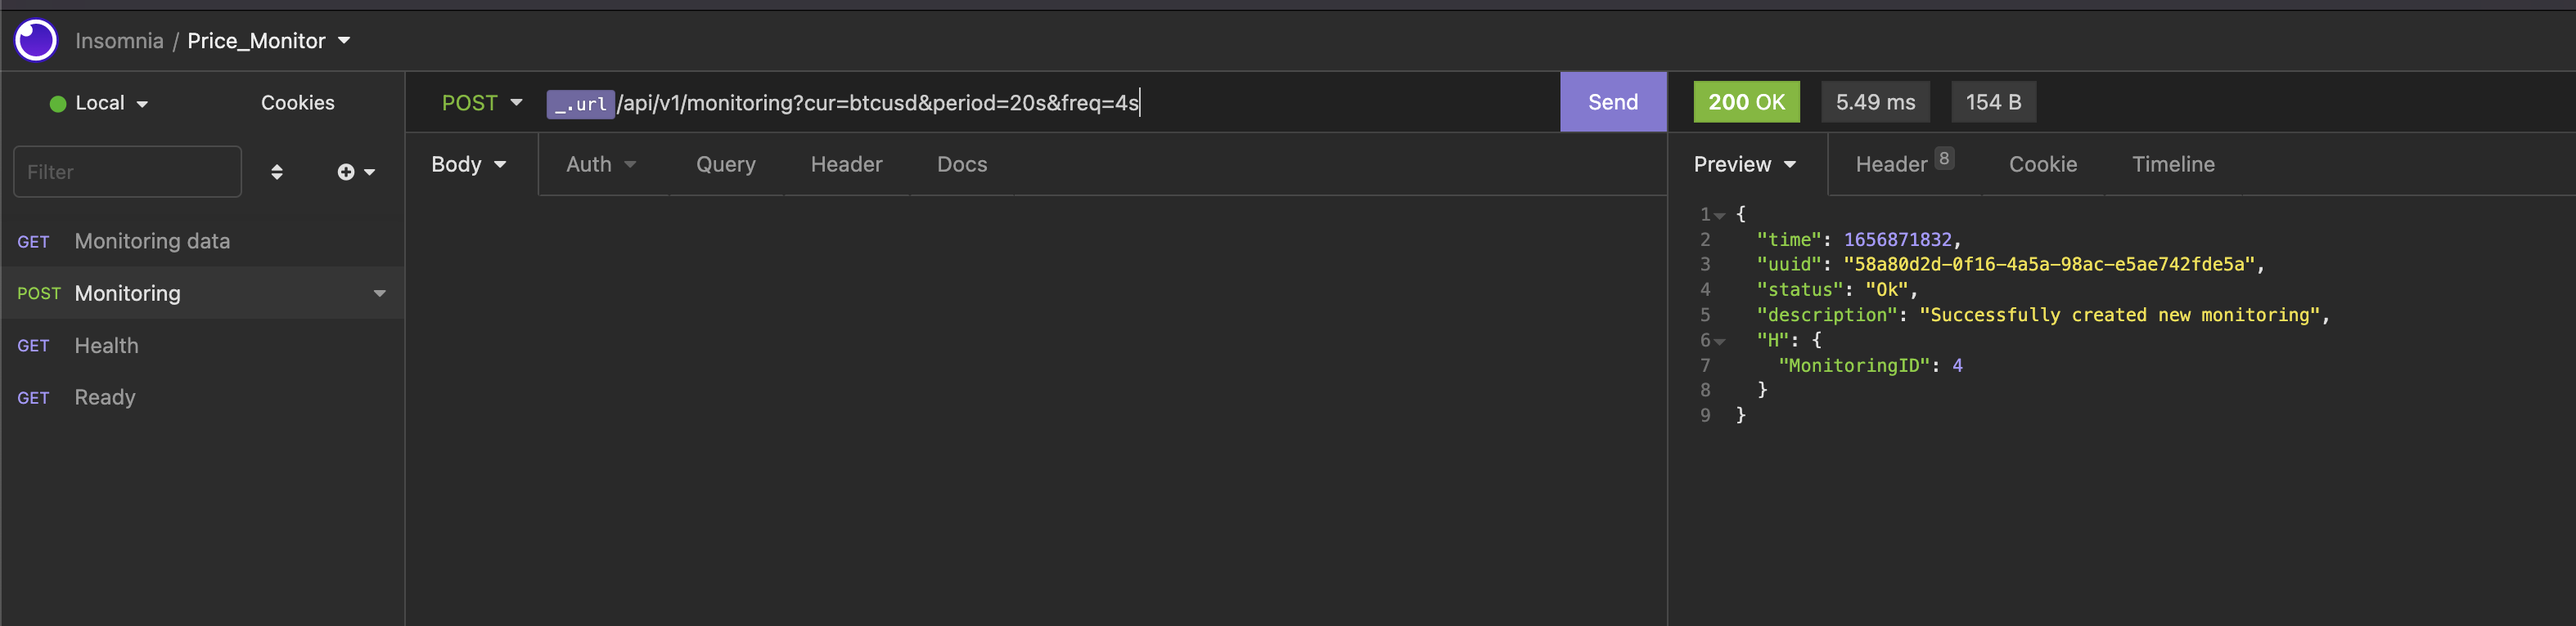
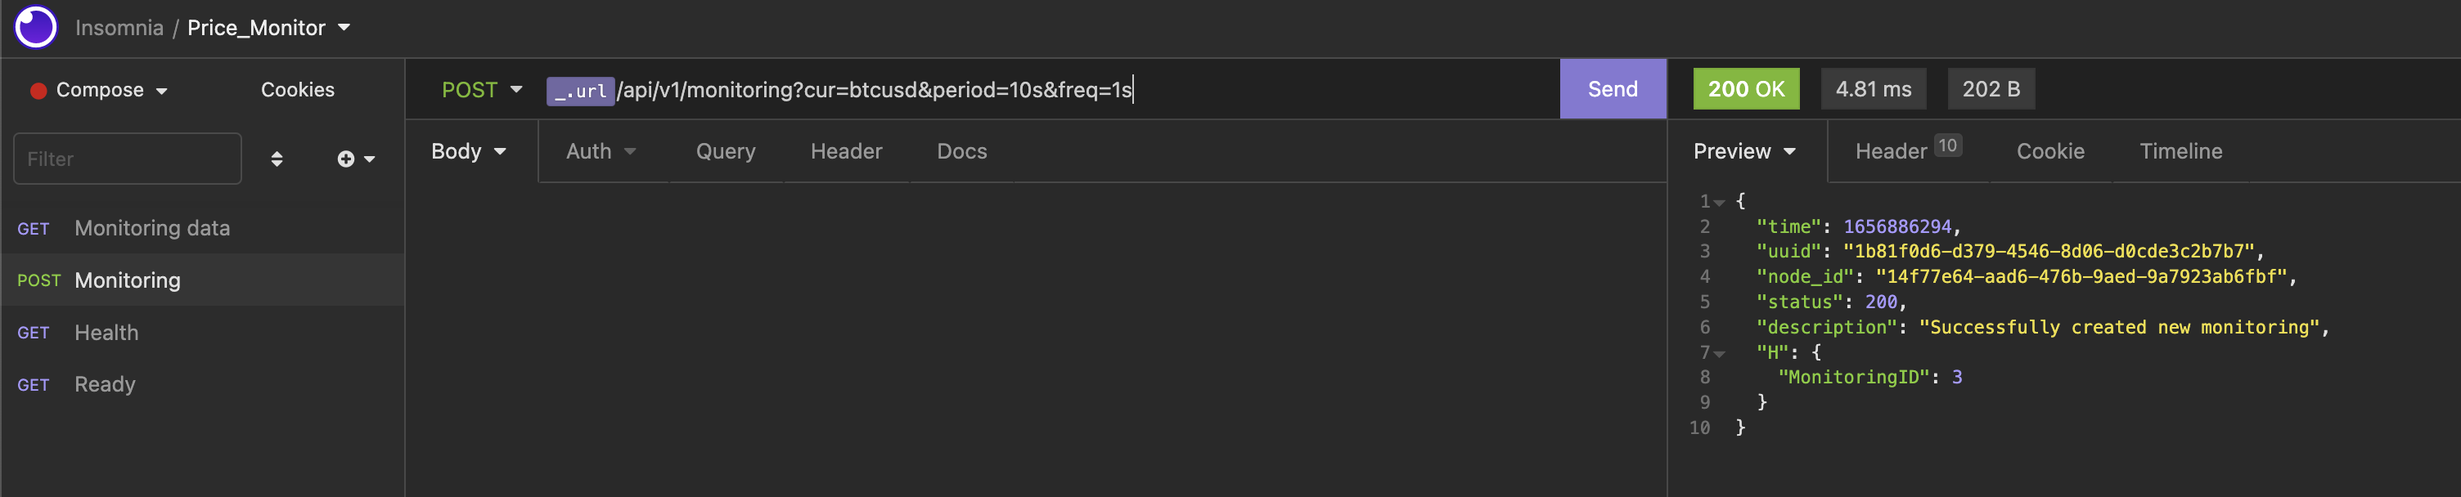
fix. update README.md, add NodeID (for describe purposes). minor fixes.

diff --git a/internal/servers/http/handlers.go b/internal/servers/http/handlers.go
@@ -13,7 +13,6 @@ import (
 	"github.com/imperiuse/price_monitor/internal/helper"
 	"github.com/imperiuse/price_monitor/internal/logger/field"
 	mw "github.com/imperiuse/price_monitor/internal/servers/http/middlerware"
-	"github.com/imperiuse/price_monitor/internal/servers/http/util"
 	"github.com/imperiuse/price_monitor/internal/services/storage"
 	"github.com/imperiuse/price_monitor/internal/services/storage/model"
 )
@@ -23,12 +22,13 @@ const defaultLimit = 10000
 type (
 	FormGetMonitoring struct {
 		ID     int64  `uri:"id" binding:"required,min=1,max=9223372036854775807"`
+		Delete bool   `form:"delete"  binding:"omitempty"`
 		Cursor uint64 `form:"cursor"  binding:"omitempty,min=0,max=18446744073709551615"`
 		Limit  uint64 `form:"limit"  binding:"omitempty,min=1,max=10000"`
 	}
 
 	FormPostMonitoring struct {
-		// TODO ALSO CAN BE LIKE HERE
+		// TODO ALSO CAN BE LIKE HERE (I decide to go straightforward, simple and utility)
 		//FromTime  time.Time `form:"from" binding:"required" time_format:"2006-01-02T15:04:05" time_utc:"0"` // time.RFC3339
 		//ToTime    time.Time `form:"to" binding:"required" time_format:"2006-01-02T15:04:05" time_utc:"0"`   // time.RFC3339
 
@@ -52,8 +52,8 @@ type (
 // @Produce  json
 // @Success 200
 // @Router /health [get]
-func Health(c *gin.Context) {
-	c.String(http.StatusOK, "")
+func (s *Server) Health(c *gin.Context) {
+	c.String(http.StatusOK, `{"NodeID": %s}`, s.config.NodeID)
 }
 
 // Readiness godoc
@@ -65,8 +65,8 @@ func Health(c *gin.Context) {
 // @Produce  json
 // @Success 200
 // @Router /ready [get]
-func Readiness(c *gin.Context) {
-	c.String(http.StatusOK, "ready")
+func (s *Server) Readiness(c *gin.Context) {
+	c.String(http.StatusOK, `{"NodeID": %s}`, s.config.NodeID)
 }
 
 // GetMonitoring godoc
@@ -75,6 +75,7 @@ func Readiness(c *gin.Context) {
 // @Id GetMonitoring
 // @Tags Server API
 // @Param id path int true "id of road controller"
+// @Param delete query bool false "delete monitoring after"
 // @Param cursor query int false "cursor for cursor pagination"
 // @Param limit query int false "limit for limit pagination"// todo https://uxdesign.cc/why-facebook-says-cursor-pagination-is-the-greatest-d6b98d86b6c0
 // @Accept  json
@@ -93,14 +94,14 @@ func (s *Server) GetMonitoring(c *gin.Context) { // TODO  toooo-looong func need
 	f := FormGetMonitoring{}
 	if err := c.ShouldBindUri(&f); err != nil {
 		s.log.Error("can not parse params (uri)", field.ID(f.ID), field.Any("form", f), field.Error(err))
-		util.SendErrorJSON(c, http.StatusBadRequest, "can not parse params (uri)", err)
+		s.SendErrorJSON(c, http.StatusBadRequest, "can not parse params (uri)", err)
 
 		return
 	}
 
 	if err := c.ShouldBindQuery(&f); err != nil {
 		s.log.Error("can not parse params (query)", field.ID(f.ID), field.Any("form", f), field.Error(err))
-		util.SendErrorJSON(c, http.StatusBadRequest, "can not parse params (query)", err)
+		s.SendErrorJSON(c, http.StatusBadRequest, "can not parse params (query)", err)
 
 		return
 	}
@@ -114,20 +115,20 @@ func (s *Server) GetMonitoring(c *gin.Context) { // TODO  toooo-looong func need
 	if err != nil {
 		if errors.Is(err, sql.ErrNoRows) {
 			s.log.Debug("not found monitoring obj with id", field.ID(f.ID))
-			util.SendErrorJSON(c, http.StatusNotFound, "no monitoring obj with that id", nil)
+			s.SendErrorJSON(c, http.StatusNotFound, "no monitoring obj with that id", nil)
 
 			return
 		}
 
 		s.log.Error("can not get data for monitoring from db", field.ID(f.ID), field.Any("form", f), field.Error(err))
-		util.SendErrorJSON(c, http.StatusInternalServerError, "can not get data for monitoring from db", err)
+		s.SendErrorJSON(c, http.StatusInternalServerError, "can not get data for monitoring from db", err)
 
 		return
 	}
 
 	if time.Now().UTC().Before(m.ExpiredAt) {
 		s.log.Debug("monitoring has not finished yet", field.Any("form", f), field.ID(f.ID))
-		util.SendErrorJSON(c, http.StatusAccepted, "monitoring has not finished yet", nil)
+		s.SendErrorJSON(c, http.StatusAccepted, "monitoring has not finished yet", nil)
 
 		return
 	}
@@ -135,7 +136,7 @@ func (s *Server) GetMonitoring(c *gin.Context) { // TODO  toooo-looong func need
 	curCode, err := s.getCurrencyCodeById(ctx, m.CurrencyID)
 	if err != nil {
 		s.log.Debug("not found currency code by code id", field.Any("m", m), field.ID(f.ID))
-		util.SendErrorJSON(c, http.StatusInternalServerError, "not found currency code by code id", nil)
+		s.SendErrorJSON(c, http.StatusInternalServerError, "not found currency code by code id", nil)
 
 		return
 	}
@@ -143,7 +144,7 @@ func (s *Server) GetMonitoring(c *gin.Context) { // TODO  toooo-looong func need
 	freq, err := time.ParseDuration(m.Frequency)
 	if err != nil {
 		s.log.Error("bad value for frequency from db", field.ID(f.ID), field.Any("m", m), field.Error(err))
-		util.SendErrorJSON(c, http.StatusInternalServerError, "bad value for frequency from db ", err)
+		s.SendErrorJSON(c, http.StatusInternalServerError, "bad value for frequency from db ", err)
 
 		return
 	}
@@ -162,7 +163,7 @@ func (s *Server) GetMonitoring(c *gin.Context) { // TODO  toooo-looong func need
 	if err != nil {
 		s.log.Error("can not get prices data for monitoring",
 			field.ID(f.ID), field.Any("form", f), field.Error(err))
-		util.SendErrorJSON(c, http.StatusInternalServerError, "can not get prices data for monitoring", err)
+		s.SendErrorJSON(c, http.StatusInternalServerError, "can not get prices data for monitoring", err)
 
 		return
 	}
@@ -174,21 +175,20 @@ func (s *Server) GetMonitoring(c *gin.Context) { // TODO  toooo-looong func need
 	prices = applyFreqFilter(prices, freq)
 
 	// TODO optional we can delete monitoring with that ID  (auto clean table, good idea imho)
-	//_, err = s.storage.Connector().Repo(m).Delete(ctx, f.ID)
-	//if err != nil {
-	//	s.log.Error("can not deleter monitoring", field.ID(f.ID), field.Any("form", f), field.Error(err))
-	//}
+	if f.Delete {
+		_, err = s.storage.Connector().Repo(m).Delete(ctx, f.ID)
+		if err != nil {
+			s.log.Error("can not deleter monitoring", field.ID(f.ID), field.Any("form", f), field.Error(err))
+		}
+	}
 
-	util.SendJSON(c, http.StatusOK, util.HTTPGoodResponse{
-		Time:        time.Now().UTC().Unix(),
-		UUID:        helper.FromContextGetUUID(ctx),
-		Status:      "Ok",
-		Description: "Result of monitoring (time in UTC)",
-		H: gin.H{
+	s.SendJSON(c, http.StatusOK, "Result of monitoring (time in UTC)",
+		gin.H{
 			"MonitoringID": f.ID,
+			"StartAt":      m.StartedAt,
+			"FinishedAt":   m.ExpiredAt,
 			"Prices":       convertToResponsePrices(prices),
-		},
-	})
+		})
 }
 
 func (s *Server) getCurrencyCodeById(ctx context.Context, id model.Identity) (string, error) {
@@ -263,7 +263,7 @@ func (s *Server) PostMonitoring(c *gin.Context) { // TODO  toooo-looong func nee
 	periodDuration, err := time.ParseDuration(f.Period)
 	if err != nil {
 		s.log.Error("bad value for period", field.Any("form", f), field.Error(err))
-		util.SendErrorJSON(c, http.StatusBadRequest, "bad value for period", err)
+		s.SendErrorJSON(c, http.StatusBadRequest, "bad value for period", err)
 
 		return
 	}
@@ -271,14 +271,14 @@ func (s *Server) PostMonitoring(c *gin.Context) { // TODO  toooo-looong func nee
 	freqDur, err := time.ParseDuration(f.Frequency)
 	if err != nil {
 		s.log.Error("bad value for frequncy", field.Any("form", f), field.Error(err))
-		util.SendErrorJSON(c, http.StatusBadRequest, "bad value for frequency", err)
+		s.SendErrorJSON(c, http.StatusBadRequest, "bad value for frequency", err)
 
 		return
 	}
 
 	if f.Period == "" || f.Frequency == "" || f.Currency == "" {
 		s.log.Error("bad value fin form", field.Any("form", f), field.Error(err))
-		util.SendErrorJSON(c, http.StatusBadRequest, "bad values in form", err)
+		s.SendErrorJSON(c, http.StatusBadRequest, "bad values in form", err)
 
 		return
 	}
@@ -286,7 +286,7 @@ func (s *Server) PostMonitoring(c *gin.Context) { // TODO  toooo-looong func nee
 	// TODO need clarify this, I add my constraints instead
 	if periodDuration > time.Hour*24 || freqDur < time.Second {
 		s.log.Error("period to much or freq too low", field.Any("form", f), field.Error(err))
-		util.SendErrorJSON(c, http.StatusBadRequest, "freqDur", err)
+		s.SendErrorJSON(c, http.StatusBadRequest, "freqDur", err)
 
 		return
 	}
@@ -299,7 +299,8 @@ func (s *Server) PostMonitoring(c *gin.Context) { // TODO  toooo-looong func nee
 	m.CurrencyID, err = s.getCurrencyIdByCurrencyCode(ctx, f.Currency)
 	if err != nil {
 		s.log.Error("can not get data currency data from db", field.Any("form", f), field.Error(err))
-		util.SendErrorJSON(c, http.StatusInternalServerError, "can not get data currency data from db", err)
+		s.SendErrorJSON(c, http.StatusBadRequest, "can not get data currency data from db."+
+			" probably you try to start monitoring unsupported currency", err)
 
 		return
 	}
@@ -307,20 +308,15 @@ func (s *Server) PostMonitoring(c *gin.Context) { // TODO  toooo-looong func nee
 	id, err := s.storage.Connector().Repo(m).Create(ctx, m)
 	if err != nil {
 		s.log.Error("can not create new monitor obj", field.Any("m", m), field.Error(err))
-		util.SendErrorJSON(c, http.StatusInternalServerError, "can not create new monitor obj", err)
+		s.SendErrorJSON(c, http.StatusInternalServerError, "can not create new monitor obj", err)
 
 		return
 	}
 
-	util.SendJSON(c, http.StatusOK, util.HTTPGoodResponse{
-		Time:        time.Now().UTC().Unix(),
-		UUID:        helper.FromContextGetUUID(ctx),
-		Status:      "Ok",
-		Description: "Successfully created new monitoring",
-		H: gin.H{
+	s.SendJSON(c, http.StatusOK, "Successfully created new monitoring",
+		gin.H{
 			"MonitoringID": id,
-		},
-	})
+		})
 
 }
 

diff --git a/internal/servers/http/util.go b/internal/servers/http/util.go
@@ -1,4 +1,4 @@
-package util
+package http
 
 import (
 	"time"
@@ -8,14 +8,13 @@ import (
 	"github.com/imperiuse/price_monitor/internal/helper"
 )
 
-const HTTPStatusOk = "OK"
-
 // HTTPGoodResponse - http good api response.
 type HTTPGoodResponse struct {
 	xxxNoUnKeyLiteral [0]int // nolint
 	Time              int64  `json:"time,omitempty"`
 	UUID              string `json:"uuid,omitempty"`
-	Status            string `json:"status,omitempty"`
+	NodeID            string `json:"node_id,omitempty"`
+	Status            int    `json:"status,omitempty"`
 	Description       string `json:"description,omitempty"`
 	gin.H
 }
@@ -25,18 +24,26 @@ type HTTPErrorResponse struct {
 	xxxNoUnKeyLiteral [0]int // nolint
 	Time              int64  `json:"time,omitempty"`
 	UUID              string `json:"uuid,omitempty"`
+	NodeID            string `json:"node_id,omitempty"`
 	Status            int    `json:"status,omitempty"`
 	Desc              string `json:"desc" example:"some human readable desc"`
 	Err               string `json:"err" example:"internal server error"`
 }
 
-// SendJSON - send error data in json format with status AND Abort gin ctx.
-func SendJSON(ctx *gin.Context, status int, response HTTPGoodResponse) {
-	ctx.JSON(status, response)
+// SendJSON - send json (good response)
+func (s *Server) SendJSON(ctx *gin.Context, status int, desc string, h gin.H) {
+	ctx.JSON(status, HTTPGoodResponse{
+		Time:        time.Now().UTC().Unix(),
+		UUID:        helper.FromContextGetUUID(ctx),
+		NodeID:      s.config.NodeID,
+		Status:      status,
+		Description: desc,
+		H:           h,
+	})
 }
 
 // SendErrorJSON - send error data in json format with status AND Abort gin ctx.
-func SendErrorJSON(ctx *gin.Context, status int, desc string, err error) {
+func (s *Server) SendErrorJSON(ctx *gin.Context, status int, desc string, err error) {
 	var errStr = ""
 	if err != nil {
 		errStr = err.Error()
@@ -45,6 +52,7 @@ func SendErrorJSON(ctx *gin.Context, status int, desc string, err error) {
 	ctx.JSON(status, HTTPErrorResponse{
 		Time:   time.Now().UTC().Unix(),
 		UUID:   helper.FromContextGetUUID(ctx),
+		NodeID: s.config.NodeID,
 		Status: status,
 		Desc:   desc,
 		Err:    errStr,

diff --git a/internal/servers/http/server.go b/internal/servers/http/server.go
@@ -26,6 +26,7 @@ type (
 	// Config - config struct.
 	Config struct {
 		Name        string
+		NodeID      string
 		Address     string
 		DomainName  string `yaml:"domainName"`
 		AllowOrigin string `yaml:"allowOrigin"`
@@ -117,8 +118,8 @@ func New(
 
 	// Server's check handlers
 	// todo metrics middleware -> mw.MetricsRPC("health", Health))
-	e.GET("/health", Health)
-	e.GET("/ready", Readiness)
+	e.GET("/health", s.Health)
+	e.GET("/ready", s.Readiness)
 
 	// Add a ginzap middleware, which:
 	//   - Logs all requests, like a combined access and error log.

diff --git a/internal/config/config.go b/internal/config/config.go
@@ -51,6 +51,7 @@ func New(appName string, envName env.Var, configPath string, nodeName string) (C
 	applyEnvOnConfig(&cfg, appName)
 
 	cfg.Servers.HTTP.Name += "_" + nodeName
+	cfg.Servers.HTTP.NodeID = nodeName
 
 	// show config for debug purposes
 	// nolint forbidigo // exception of rule )

diff --git a/README.md b/README.md
@@ -53,19 +53,27 @@ From root of the repository:
 2) Start monitoring
 
     ```curl --request POST --url http://localhost:4000/api/v1/monitoring?cur=btcusd&period=1m&freq=10s```
+   ![img](./.img/example_post.png)
+3) ![img](./.img/example_post_2.png)
 
-3) Get results of monitoring 
+4) Get results of monitoring 
 
     ```curl --request GET --url http://localhost:4000/api/v1/monitoring/1```
+
+![img](./.img/example_get.png)
+![img](./.img/example_get_2_not_ready.png)
+![img](./.img/example_get_3.png)
+
+Optional:
+
+4) Get result monitoring and delete monitoring record from db 
+
+    ```curl --request GET --url http://localhost:4000/api/v1/monitoring/1?delete=true```
 
 
 #### Insomnia examples:
 
 see in folder -> `.insomnia`
-
-![img](./.img/example_post.png)
-![img](./.img/example_get.png)
-
 
 #### Docker Compose run
 
@@ -88,7 +96,7 @@ see in folder -> `.insomnia`
 
 #### Env up
 
-   make dev_env_up
+    make dev_env_up
 
 After that can run go app (in JetBrains IDE or VSCode) (do not forget set up .env file and add ENVs)
 
@@ -97,11 +105,11 @@ After that can run go app (in JetBrains IDE or VSCode) (do not forget set up .en
    
 #### Remove old container or volumes
 
-   make docker_clean_all
+    make docker_clean_all
    
 #### Rebuild prod app container
 
-   make rebuild
+    make rebuild
    
 Made by Arseny Sazanov 2022
 
